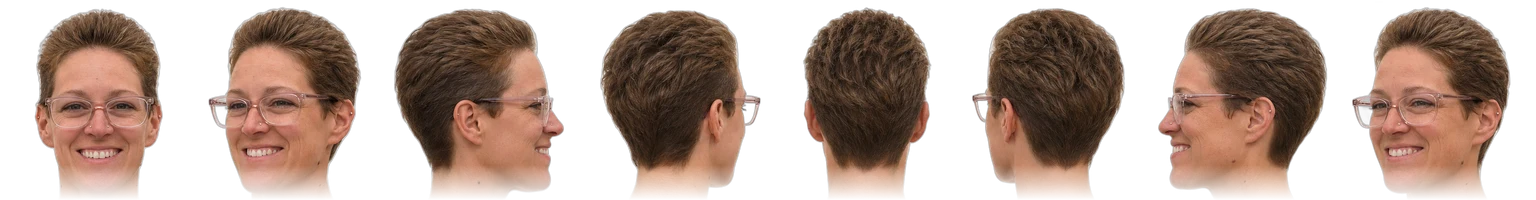
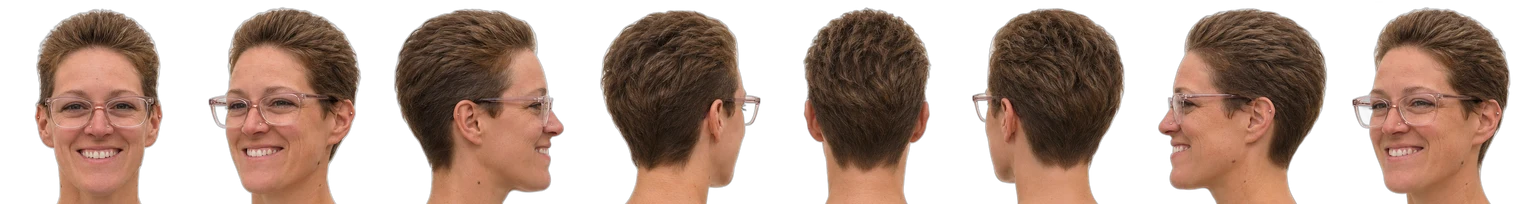
Cluckin' Abby: Abby's head sits properly on the hen's neck (#99)
Claude-Session: https://claude.ai/code/session_01HKyCc4k4tbjRR5EKmTbVKW

diff --git a/carnival/abby-hen/index.html b/carnival/abby-hen/index.html
@@ -65,7 +65,7 @@ const rand = (a, b) => a + Math.random() * (b - a), clamp = (v, a, b) => Math.ma
 const store = { get(k) { try { return localStorage.getItem(k); } catch (e) { return null; } }, set(k, v) { try { localStorage.setItem(k, v); } catch (e) {} } };
 const hen = new Image(); hen.src = "img/hen-body.webp";
 const head = new Image(); head.src = "img/head.webp";                  // 8 photos of Abby's head, every 45° around, side by side
-const HEAD_FW = 192, HEAD_FH = 200;
+const HEAD_FW = 192, HEAD_FH = 204;
 // how her head is turned (degrees, 0 = facing you, 90 = her right profile, 180 = back of her head)
 // The whole hen turns (degrees, 0 = facing you, 90 = side view facing right like the photo, 180 = back to you).
 // Abby's head is on the hen's neck, so it turns with the body, twisted a little toward you.
@@ -79,13 +79,13 @@ function liftK() {                                                       // 0 = 
   if (G.state !== "cackle") return 0; const t = G.stateT, e = x => (1 - Math.cos(Math.PI * clamp(x, 0, 1))) / 2;
   return t < RISE ? e(t / RISE) : t < RISE + SPIN ? 1 : 1 - e((t - RISE - SPIN) / SINK);
 }
-function headAngle() { return bodyAngle() - 55; }                         // her head is fixed on the hen, turned toward you, and turns with the body
-function drawHead(cx, top, fh) {
+function headAngle() { return bodyAngle() - 45; }                         // at rest she shows one clean photo (45°), turned toward you                         // her head is fixed on the hen, turned toward you, and turns with the body
+function drawHead(cx, top, fh, squeeze = 1) {
   if (!head.complete || !head.naturalWidth) return;
-  const fw = fh * HEAD_FW / HEAD_FH, a = ((headAngle() % 360) + 360) % 360, i = Math.floor(a / 45) % 8, f = (a - i * 45) / 45, j = (i + 1) % 8;
+  const fw = fh * HEAD_FW / HEAD_FH * squeeze, a = ((headAngle() % 360) + 360) % 360, i = Math.floor(a / 45) % 8, f = (a - i * 45) / 45, j = (i + 1) % 8;
   ctx.drawImage(head, i * HEAD_FW, 0, HEAD_FW, HEAD_FH, cx - fw / 2, top, fw, fh);
-  const g = clamp((f - 0.3) / 0.4, 0, 1);                                 // quick blend in the middle, so it looks like one solid head
-  ctx.globalAlpha = 1 - g * 0; if (g > 0.02) { ctx.globalAlpha = g; ctx.drawImage(head, j * HEAD_FW, 0, HEAD_FW, HEAD_FH, cx - fw / 2, top, fw, fh); ctx.globalAlpha = 1; }
+  const g = clamp((f - 0.35) / 0.3, 0, 1);                                // quick switch in the middle of each 45°, so it looks like one solid head
+  if (g > 0.02) { ctx.globalAlpha = g; ctx.drawImage(head, j * HEAD_FW, 0, HEAD_FW, HEAD_FH, cx - fw / 2, top, fw, fh); ctx.globalAlpha = 1; }
 }
 
 // ---------- Sound ----------
@@ -236,10 +236,11 @@ function drawWindow() {
     ctx.fillStyle = pg; ctx.fillRect(px - 5, hy + hh * 0.8, 10, c.wy + c.wh - hy - hh * 0.8);
     // turn the body like a cutout spinning on a pole: it narrows edge-on and flips when it faces the other way
     const sx = Math.sin(bodyAngle() * Math.PI / 180), sxv = Math.sign(sx || 1) * Math.max(0.2, Math.abs(sx)), mid = hx + hw / 2;
+    // Abby's head goes on first, its neck tucked down into the hen's feathered collar, then the hen is drawn over it
+    const fh = hh * 0.43; drawHead(mid + (0.763 - 0.5) * hw * sxv, hy + hh * 0.34 - fh, fh, 0.8 + 0.2 * Math.abs(sx));
     ctx.save(); ctx.translate(mid, 0); ctx.scale(sxv, 1);
     ctx.filter = "brightness(" + (0.75 + 0.25 * Math.abs(sx)).toFixed(2) + ")";   // a little darker as it turns edge-on
     ctx.drawImage(hen, -hw / 2, hy, hw, hh); ctx.restore();
-    const fh = hh * 0.34; drawHead(mid + (0.83 - 0.5) * hw * sxv, hy + hh * 0.249 - fh * 0.8, fh);   // Abby's turning head sits right on the hen's neck (the chicken's own head was erased)
   }
   // the bed of eggs in front of her
   const er = c.ww * 0.05;

diff --git a/carnival/sw.js b/carnival/sw.js
@@ -1,5 +1,5 @@
 // Carnival Midway offline cache. Bump VERSION when you change any file.
-const VERSION = "midway-v92";
+const VERSION = "midway-v93";
 const CORE = [
   "./", "index.html", "coins.js", "mikey/poster.webp", "mikey/lines.js", "manifest.webmanifest", "icon-192.png", "icon-512.png", "icon-maskable-512.png", "apple-touch-icon.png", "favicon-32.png",
   "down-the-clown/", "down-the-clown/index.html",

diff --git a/README.md b/README.md
@@ -111,7 +111,7 @@ It works offline once it has been opened. High scores are saved on each device.
 
 **The Junk Crane** (`carnival/junk-crane/`): a claw machine full of plastic prize eggs. Drag the slider to move the claw, tap DROP, and it drops, grabs and carries the egg to the prize chute; the closer to the middle of an egg, the better it holds; the claw swings a little on its cable when you drop it (more if it was still moving, `SWING`), and sometimes it slips anyway. Players win about 4 to 5½ eggs per 10 tries (`GRIP`). 5 tries for 1 coin. Every egg you win pops open to a piece of family junk (Eddie’s debt, one of Sonny’s 900 billion spare Harley keys, Abby’s glasses, the penny Abby found on the floor, an empty egg Eddie already robbed, a poof of Eddie’s chest hair, a note saying you owe Eddie five dollars, Eddie’s IOU for the $20 he owes you, Abby’s unwanted opinion, a jar of her hot air, her hair clippings, Sonny’s mustache clippings, his used bandana, an old roach and a bullet casing from his last hunt, and more in `PRIZES`). The best haul is saved. One gold egg has a real coin inside: +1.
 
-**Cluckin’ Abby** (`carnival/abby-hen/`): a coin-op egg-laying hen machine drawn to look real (white enamel cabinet with rivets, orange roof with a lit sign, glass window, coin slot and egg door). The hen is a photo cutout (`img/hen-body.webp`) with its chicken head removed and Abby’s real head on its neck instead, made from 8 photos of her taken every 45° around (`img/head.webp`), and the whole hen turns with it: like the real machine: after the coin she rises up out of the eggs on a metal pole, turns all the way around on it (body and head together, the body narrowing and flipping like a turning cutout) while she cackles, then sinks back down and lays the egg (`RISE`, `SPIN`, `SINK`). Tap INSERT COIN (1 coin): Abby cackles and talks (“Bawk! So anyway, where was I?”), shakes and lays a gift egg that rolls out of the door. Tap the egg to open it: junk in every egg (`PRIZES`), and 1 in 12 is a gold egg with 2 gifts, a junk prize plus your coin back (+1). The phone counts how many eggs Abby has laid.
+**Cluckin’ Abby** (`carnival/abby-hen/`): a coin-op egg-laying hen machine drawn to look real (white enamel cabinet with rivets, orange roof with a lit sign, glass window, coin slot and egg door). The hen is a photo cutout (`img/hen-body.webp`) with its chicken head removed and Abby’s real head tucked into a feathered collar on its neck instead, made from 8 photos of her taken every 45° around (`img/head.webp`), and the whole hen turns with it: like the real machine: after the coin she rises up out of the eggs on a metal pole, turns all the way around on it (body and head together, the body narrowing and flipping like a turning cutout) while she cackles, then sinks back down and lays the egg (`RISE`, `SPIN`, `SINK`). Tap INSERT COIN (1 coin): Abby cackles and talks (“Bawk! So anyway, where was I?”), shakes and lays a gift egg that rolls out of the door. Tap the egg to open it: junk in every egg (`PRIZES`), and 1 in 12 is a gold egg with 2 gifts, a junk prize plus your coin back (+1). The phone counts how many eggs Abby has laid.
 
 **Sonny the Sorta Psychic** (`carnival/fortune-sonny/`): a fortune-teller machine. The machine picture is `img/machine.webp`; the bulbs twinkle, the lamps flicker and the crystal ball swirls on top of it. Pick a topic (Love, Money, Family, Work, Friends, Future), or tap INSERT COIN or the crystal ball for a surprise. Sonny's words show on the purple sign (and says them out loud in a recorded man’s voice, the same on every phone; there is an on/off switch), then a fortune card comes out of the card slot.
 
